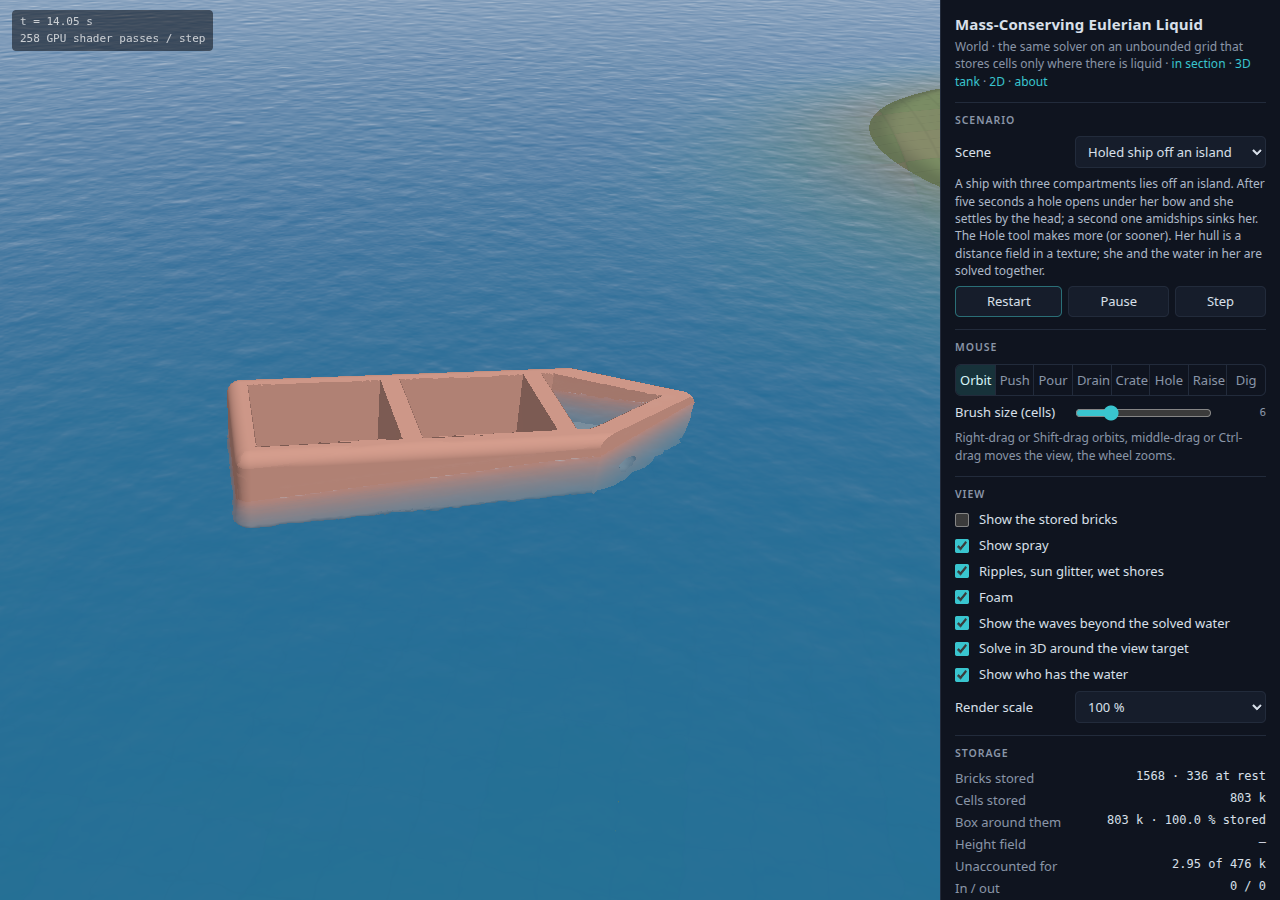
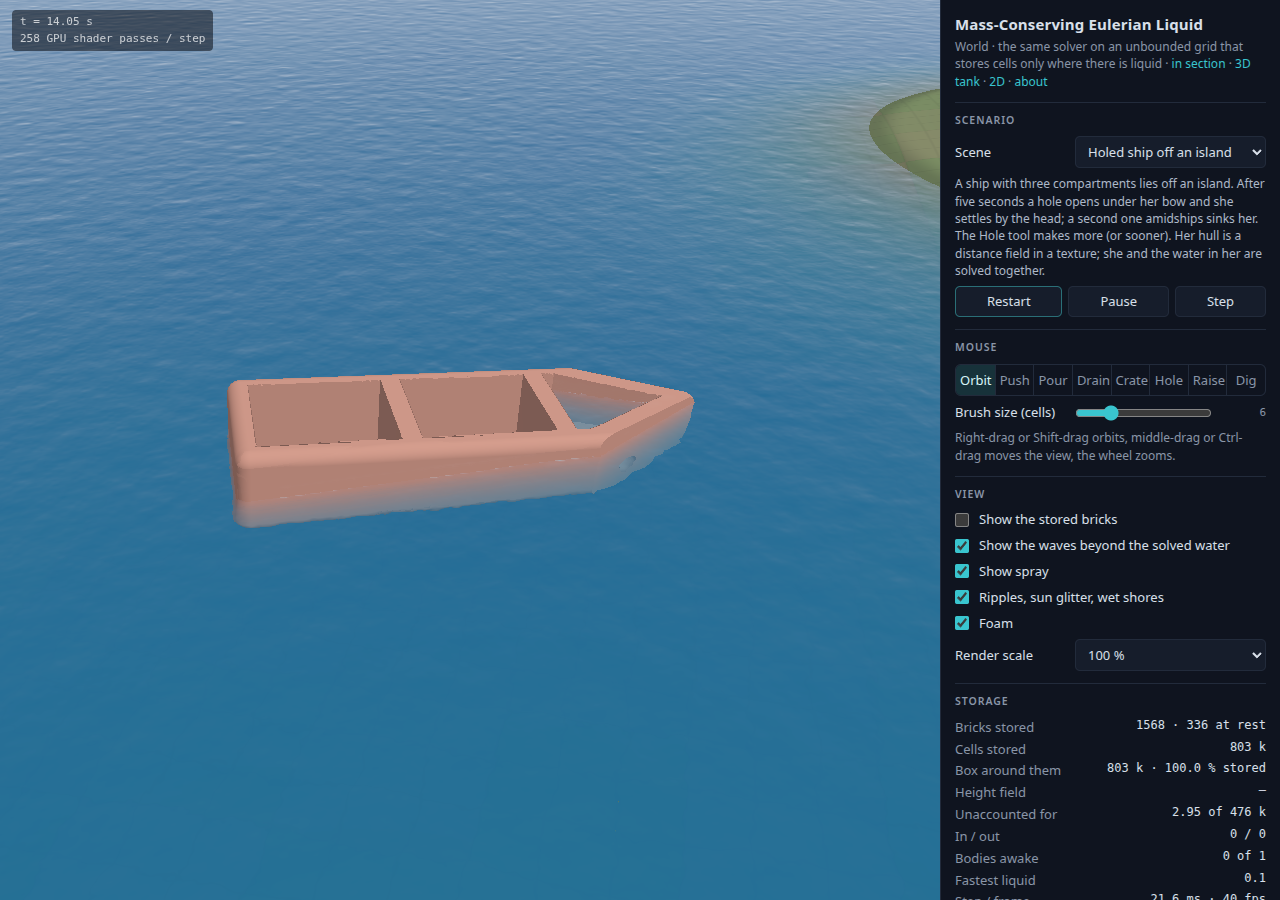
World app: only the view boxes that apply to a scene; the solver map by name
"Show who has the water" was the last box of the View section, under six
others, three of which do nothing in most scenes. Under the longer scene
descriptions (the dam, the spring) it lay below the bottom of a window
700 pixels high, with nothing to say that the panel scrolls, and its
name did not say what it shows.

The panel now leaves out the boxes that do nothing in the scene that is
loaded: the solver map and "Solve in 3D around the view target" without
a height field, the waves beyond the solved water without a sea at rest,
foam where there is no map for it. The three that are of some scenes only
come right after the bricks, and the box is called "Show the solver map".
In the dam scene it sits 130 pixels higher (y 536 in a window of 720).

tools/interact.mjs world passes in Chrome, LibreWolf and Firefox (41
checks each). The three pictures of the app are taken again.

Changed region(s): [[0.75, 0.5911, 1.0, 1.0]]

diff --git a/src/world/app3d.js b/src/world/app3d.js
@@ -74,6 +74,17 @@ function loadScene(keepCamera = false) {
   if (!keepCamera) frameCamera();
   const blurb = document.getElementById('blurb');
   if (blurb) blurb.textContent = WORLD_SCENES[state.scene].blurb;
+  fitPanel();
+}
+
+// The boxes of the View section that do something in the scene that is loaded; the others are
+// left out. (All of them at once, under a long description of the scene, put the last ones
+// below the bottom of a window 700 pixels high, and a box that is not seen is not looked for.)
+function fitPanel() {
+  if (!panel) return;
+  const sim = world.sim;
+  const has = { tiers: !!world.hf, focus: !!world.hf, swell: !!sim.swell, foam: !!sim.foam };
+  for (const k in has) panel.controls[k].closest('label').style.display = has[k] ? '' : 'none';
 }
 
 function fitCanvas() {
@@ -261,18 +272,19 @@ function buildPanel() {
   P.section('View');
   P.checkbox('bricks', 'Show the stored bricks', state.overlay, (v) => { state.overlay = v; },
     'Outlines of the 8 x 8 x 8 cell bricks that are stored: blue where they hold liquid, amber where they hold water at rest that is kept but not solved, grey where they are kept as a margin.');
+  // (the next three are of some scenes only: fitPanel leaves out those that do nothing in the scene that is loaded)
+  P.checkbox('tiers', 'Show the solver map', state.tiers, (v) => { state.tiers = v; },
+    'Which solver has the water: a map of the scene\'s columns of bricks, seen from above, in the corner of the view. Blue: the height field alone. Amber: a copy of it stored next to solved water. Light: solved in 3D. Red: should be solved (a front, a fall) but the budget of solved bricks is used up. Violet: a source, a sink or the end of a link, which stays the height field\'s.');
+  P.checkbox('focus', 'Solve in 3D around the view target', state.focus, (v) => { state.focus = v; },
+    'In a scene with a height field, the water around the point the camera turns about is handed to the 3D solver, as far as the budget of solved bricks allows, and goes back to the height field when the view moves on. Off: only what a height field cannot hold is solved in 3D (fronts, falls, splashes, the water around bodies and the brush).');
+  P.checkbox('swell', 'Show the waves beyond the solved water', state.swell, (v) => { state.swell = v; },
+    'Where the water of a sea is not solved, a map of its surface carries the waves on. Off: the sea is drawn flat there, which is all the solver itself knows of it.');
   P.checkbox('mist', 'Show spray', state.mist, (v) => { state.mist = v; },
     'Density below the surface threshold of 0.5 (sheets and drops thinner than a cell) drawn as a white haze.');
   P.checkbox('detail', 'Ripples, sun glitter, wet shores', state.detail, (v) => { state.detail = v; },
     'Drawn on top of what is solved, for the eye only: ripples smaller than a cell, the sun on them, and the ground darker where it is wet. Off: the water and the ground as the solver has them.');
   P.checkbox('foam', 'Foam', state.foam, (v) => { state.foam = v; },
     'White on the water where it breaks: under a fall, in rapids, on a wave that goes over, around a splash. It is made, carried along and fades on a map of its own, for the eye only; the solver knows nothing of it.');
-  P.checkbox('swell', 'Show the waves beyond the solved water', state.swell, (v) => { state.swell = v; },
-    'Where the water of a sea is not solved, a map of its surface carries the waves on. Off: the sea is drawn flat there, which is all the solver itself knows of it.');
-  P.checkbox('focus', 'Solve in 3D around the view target', state.focus, (v) => { state.focus = v; },
-    'In a scene with a height field, the water around the point the camera turns about is handed to the 3D solver, as far as the budget of solved bricks allows, and goes back to the height field when the view moves on. Off: only what a height field cannot hold is solved in 3D (fronts, falls, splashes, the water around bodies and the brush).');
-  P.checkbox('tiers', 'Show who has the water', state.tiers, (v) => { state.tiers = v; },
-    'In a scene with a height field: a map of its columns of bricks, seen from above. Blue: the height field alone. Amber: a copy of it stored next to solved water. Light: solved in 3D. Red: should be solved (a front, a fall) but the budget of solved bricks is used up. Violet: a source, a sink or the end of a link, which stays the height field\'s.');
   P.select('rs', 'Render scale', [[0.5, '50 %'], [0.75, '75 %'], [1, '100 %']], state.renderScale, (v) => { state.renderScale = Number(v); });
 
   P.section('Storage');
@@ -368,7 +380,7 @@ function updateStats() {
   readouts.perf.textContent = `${world.resting ? 'at rest' : stepMs > 0 ? stepMs.toFixed(1) + ' ms' : '–'} · ${fps.toFixed(0)} fps`;
 }
 
-// The map of who has the water (World.tiers), one pixel per column of bricks, with a cross where the camera looks.
+// The solver map: who has the water (World.tiers), one pixel per column of bricks, with a cross where the camera looks.
 const tierCanvas = document.getElementById('tiers'), tierKey = document.getElementById('tiersKey');
 const TIER_RGB = [[0, 0, 0, 0], [47, 111, 163, 255], [232, 163, 61, 255], [127, 227, 245, 255]];
 function drawTiers() {
@@ -452,6 +464,7 @@ try {
   loadScene();
   fitCanvas();
   panel = buildPanel();
+  fitPanel();
   window.app = { state, camera, loadScene, stepOnce, renderer, holeAtPointer, get world() { return world; } };
   requestAnimationFrame(tick);
 } catch (e) {

diff --git a/README.md b/README.md
@@ -998,7 +998,7 @@ in it a map cannot hold) and read back. A column is solved
 * where liquid falls into it, or liquid faster than 0.15 cells per step can reach it.
 
 Falls come first, then fronts, of each the nearest to the view target, and all of it within
-the budget of 3000 solved bricks. The inset map of the app ("Show who has the water") colours
+the budget of 3000 solved bricks. The inset map of the app ("Show the solver map") colours
 every column of bricks: the map's, a copy, solved, or flagged with no budget left.
 
 *When it goes back.* Not when it is at rest: a river never is. A column goes back after 120
